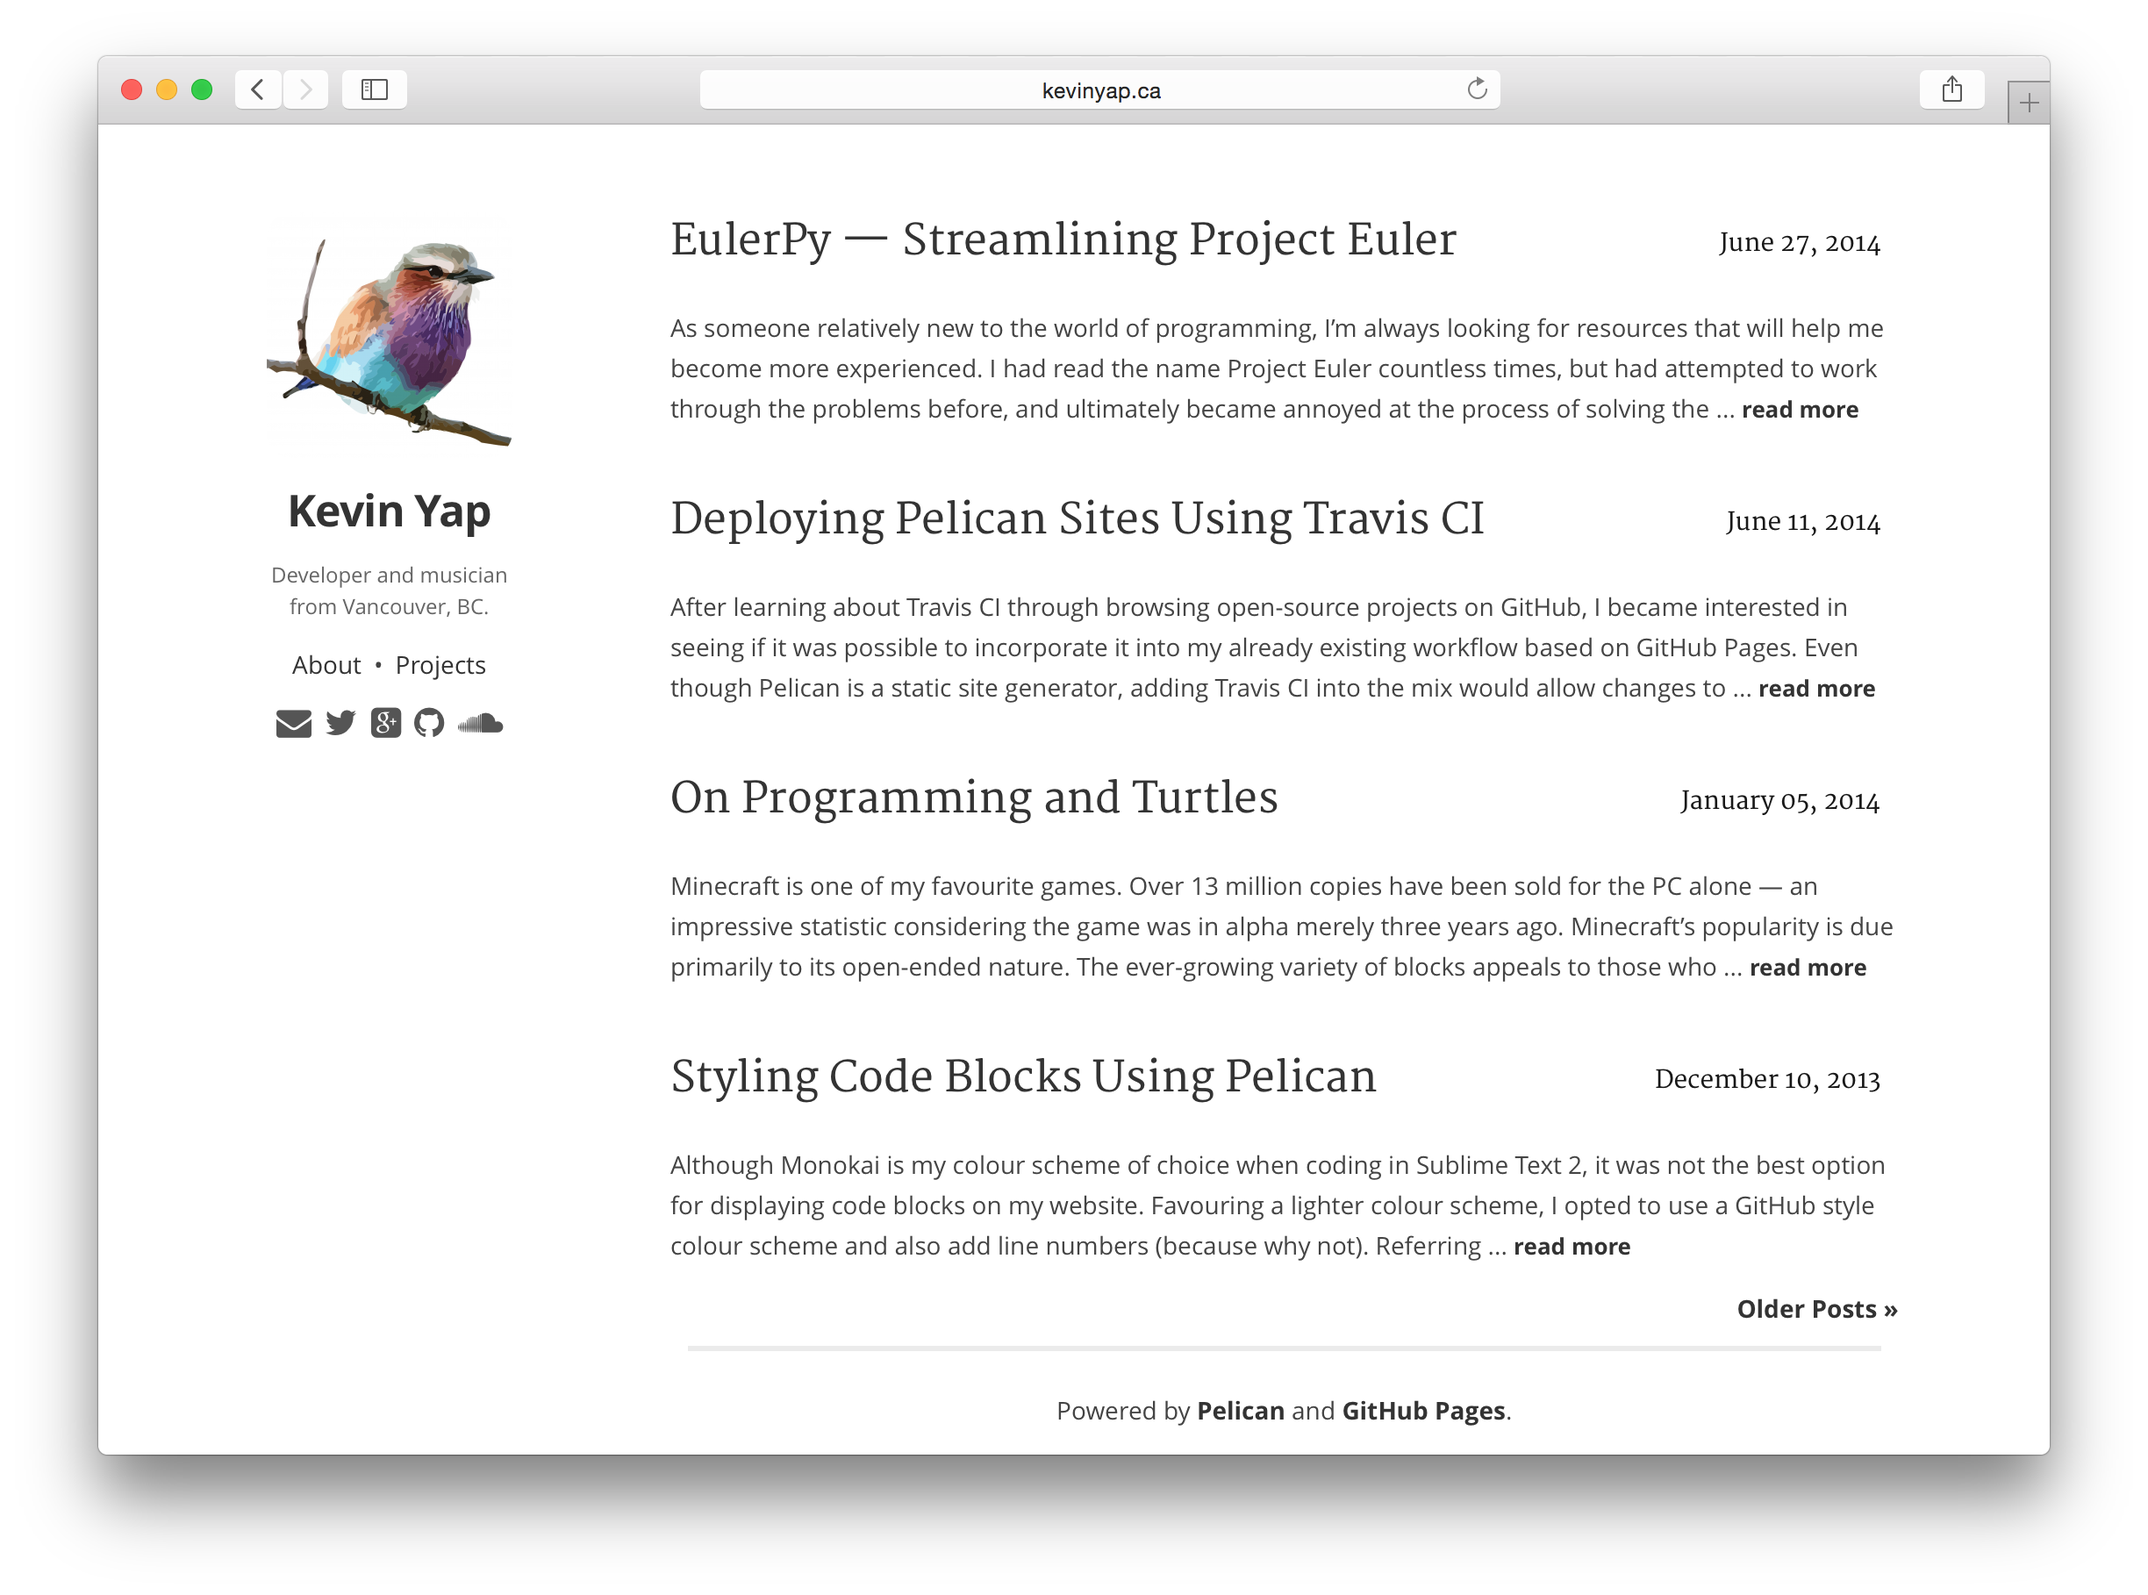
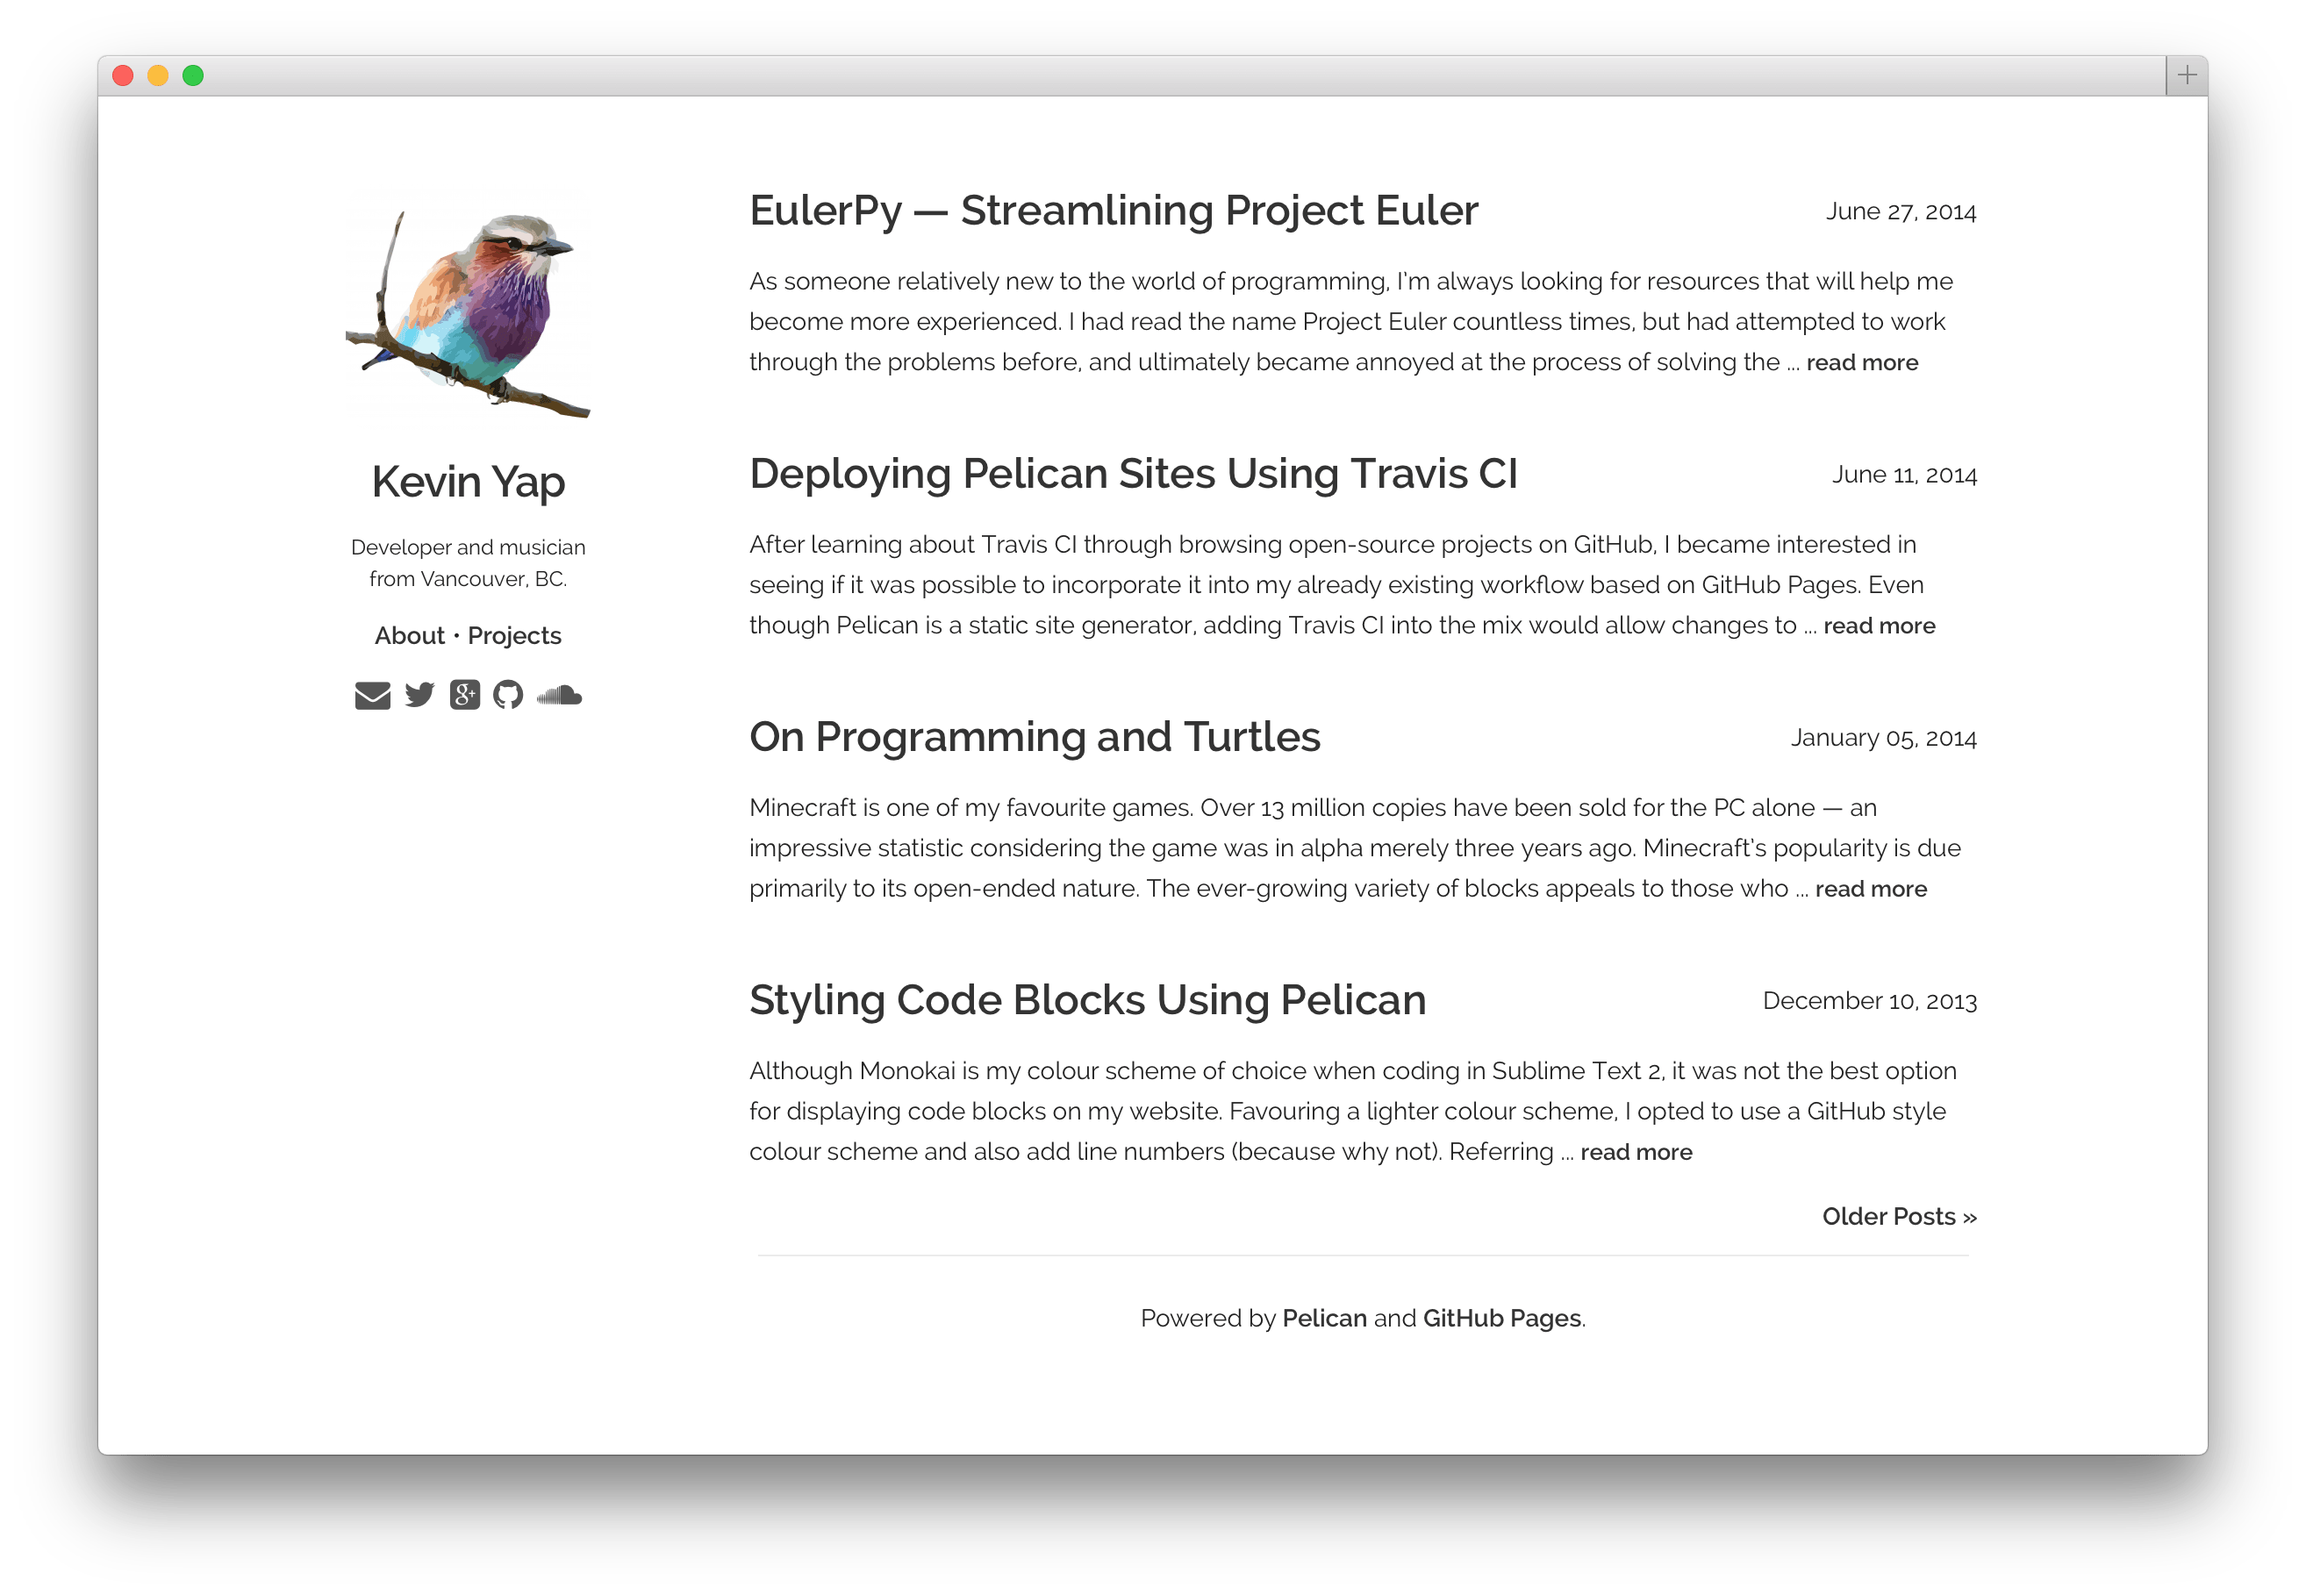
Update Pneumatic screenshots
Screenshots reflect changes made in f328b0ca1fe4409411fb91ddcf7ef11828d1cddf.

diff --git a/pneumatic/README.md b/pneumatic/README.md
@@ -40,5 +40,3 @@ Here are theme-specific settings that should be present in the Pelican configura
 ![Index Page](screenshots/index.png?raw=true)
 
 ![Article](screenshots/article.png?raw=true)
-
-![Archive](screenshots/archive.png?raw=true)
